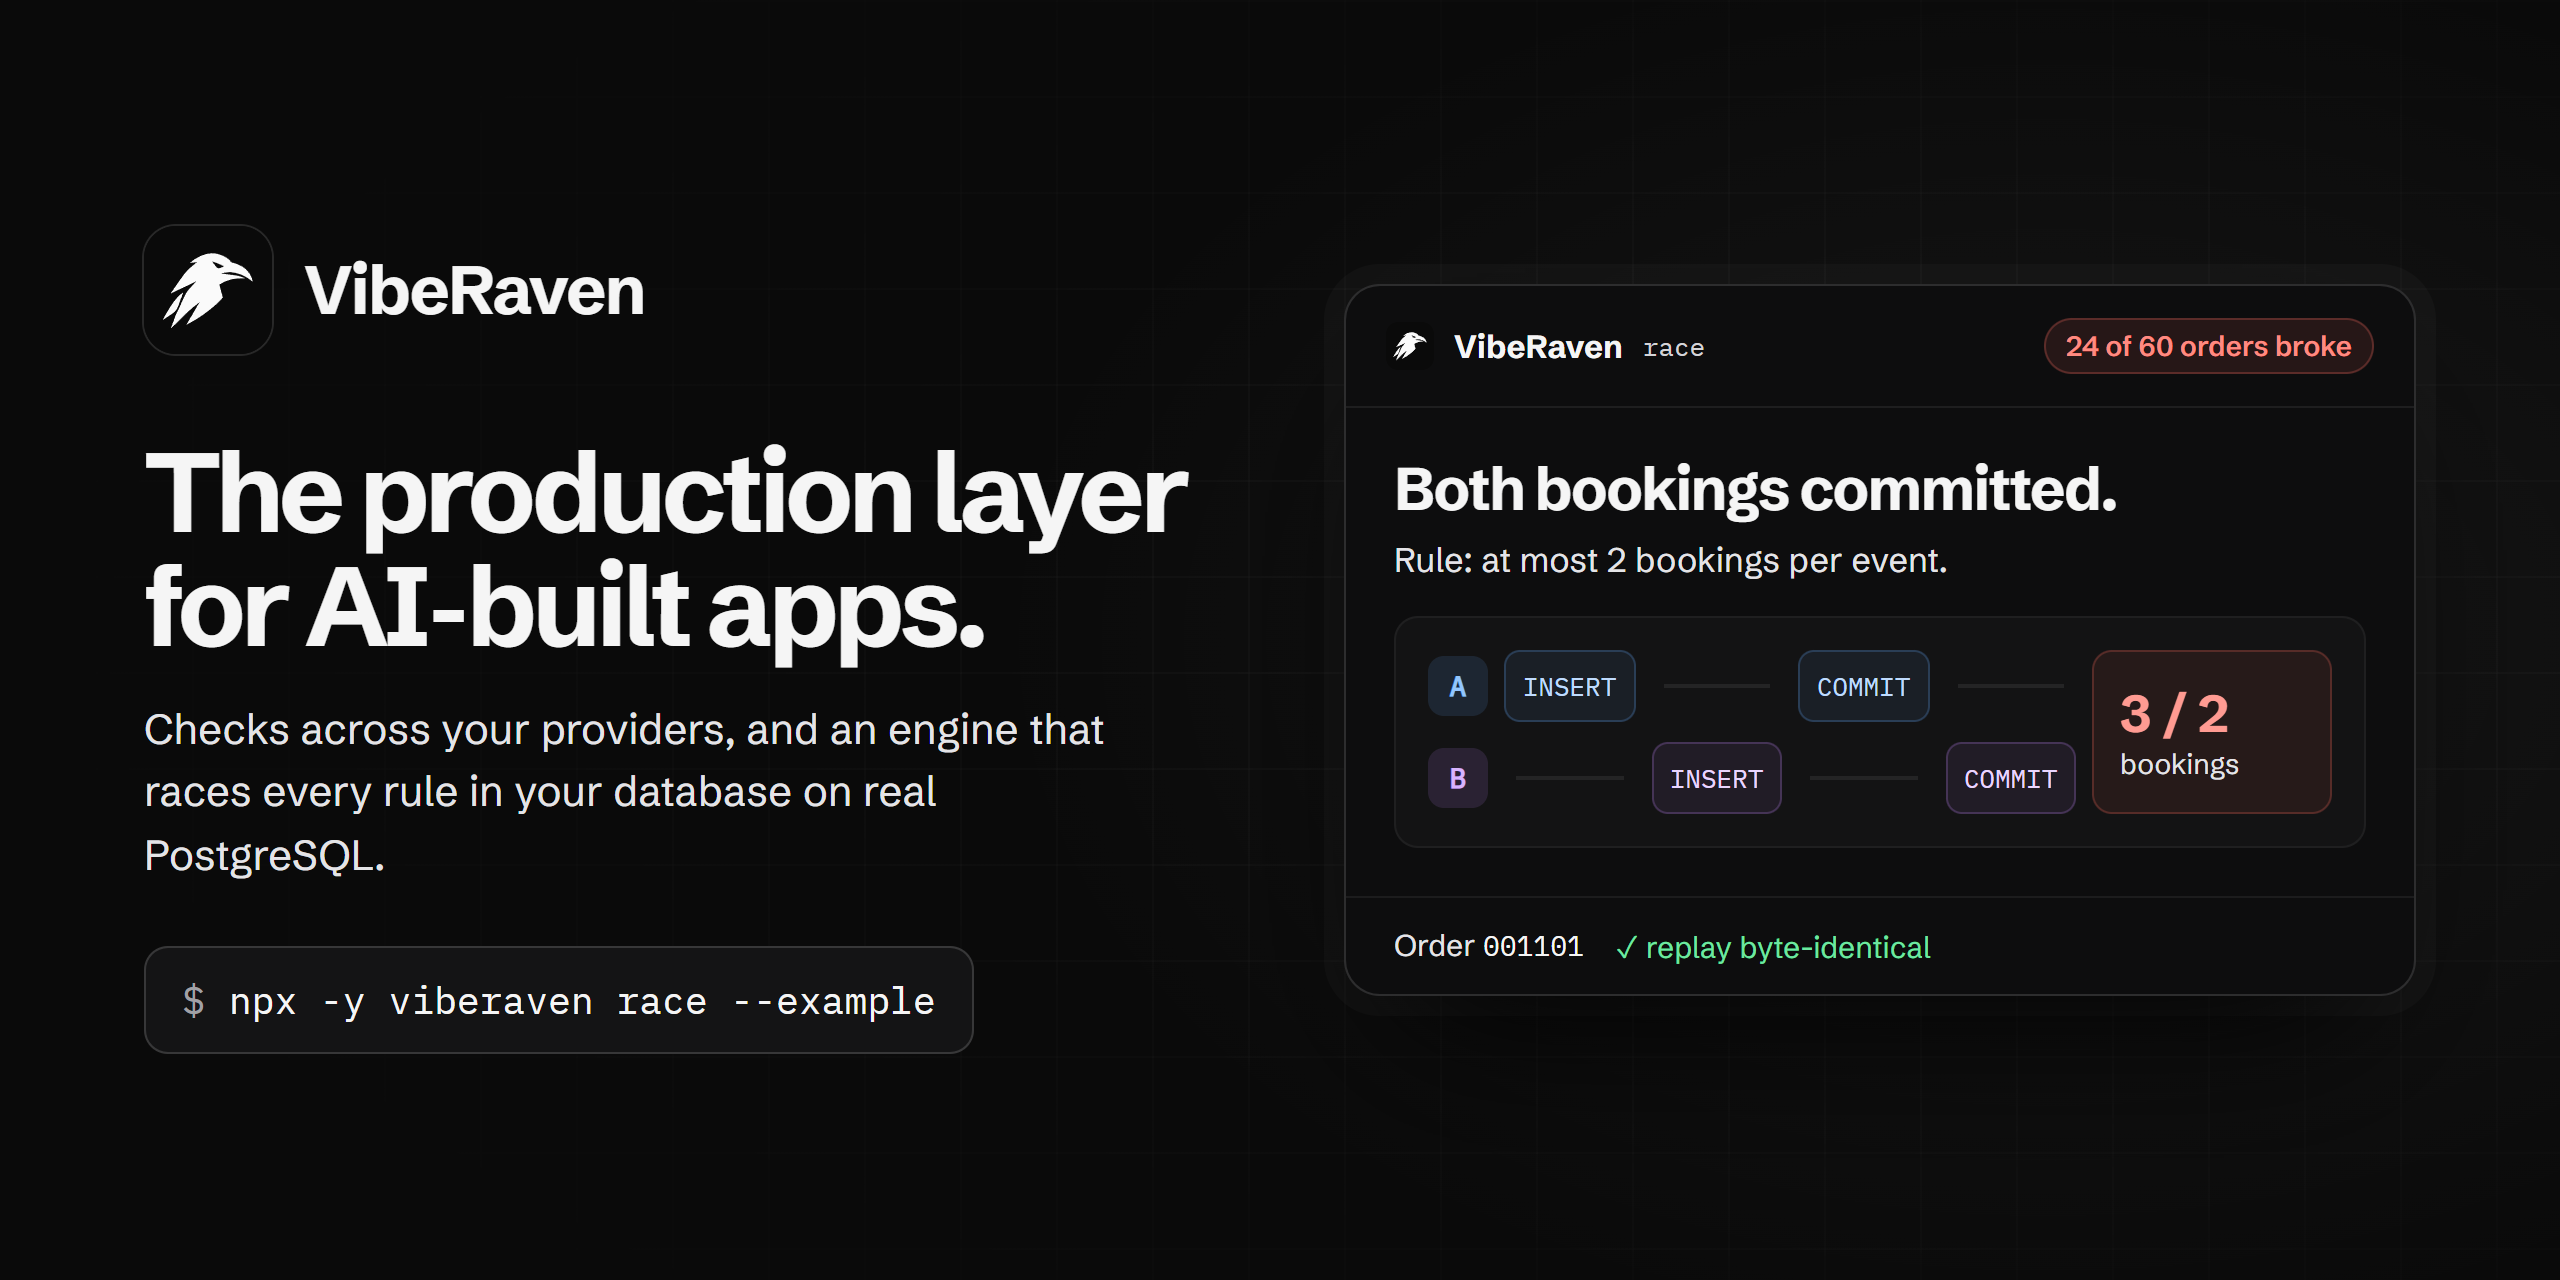
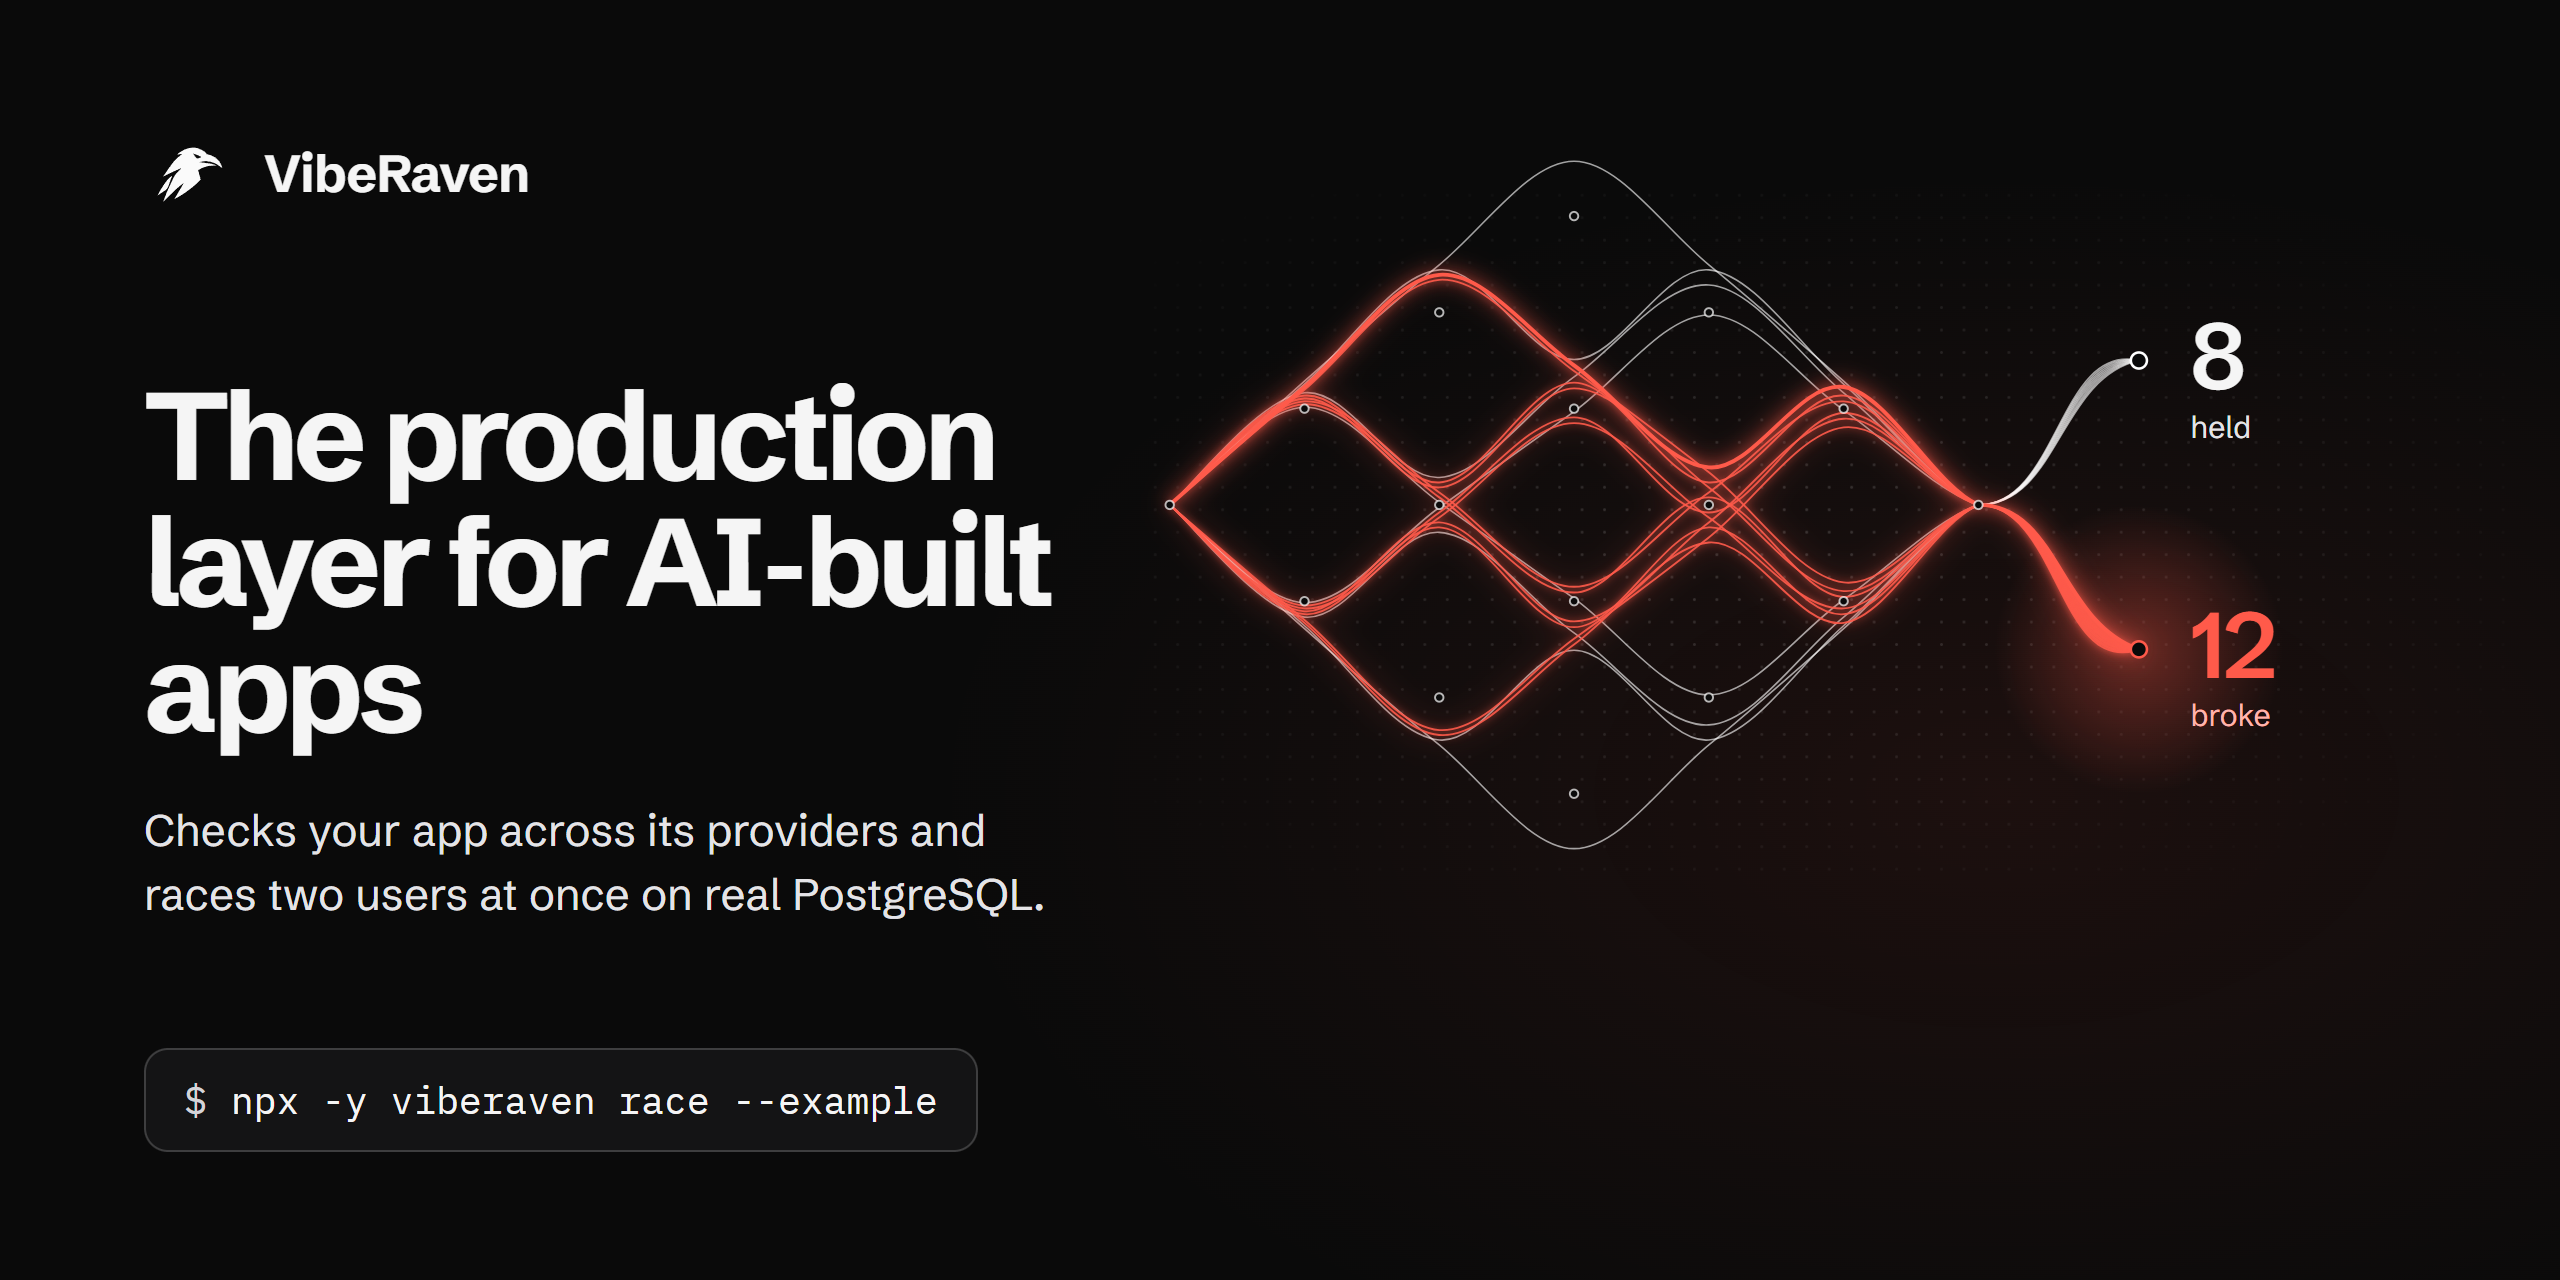
docs: README images drawn as threads, matching viberaven.dev

diff --git a/README.md b/README.md
@@ -1,5 +1,5 @@
 <p align="center">
-  <a href="https://viberaven.dev"><img src="./assets/readme-banner.png" alt="VibeRaven: the production layer for AI-built apps. A race result: both bookings committed, 24 of 60 orders broke, replay byte-identical." width="100%" /></a>
+  <a href="https://viberaven.dev"><img src="./assets/readme-banner.png" alt="VibeRaven: the production layer for AI-built apps. All 20 orders of two bookings drawn as threads: 12 broke the limit, 8 held." width="100%" /></a>
 </p>
 
 <p align="center">
@@ -40,9 +40,9 @@ Replay record is byte-identical, including PostgreSQL protocol bytes.
 
 That is the engine inside VibeRaven: `race` tests your app's database with two users at once, on real PostgreSQL, without Docker, and replays exactly what broke. In order 001101, A inserts, B inserts, A commits, B commits: the event ends with 3 bookings out of 2. The bundled fix brings it to 0 broken of 60.
 
-## Inside your chat
+<p align="center"><img src="./assets/race-result.png" alt="npx -y viberaven race --example: two users book the last seat at once. 12 orders broke under read committed, 12 under repeatable read, 0 under serializable: 24 of 60. The broken order replays exactly." width="100%" /></p>
 
-<p align="center"><img src="./assets/chat-race.png" alt="VibeRaven's race result inside ChatGPT: both bookings committed, 24 of 60 orders broke, replay byte-identical." width="100%" /></p>
+## Inside your chat
 
 Add `https://viberaven.dev/mcp` as a custom connector in ChatGPT, Claude, Codex, Cursor or Lovable, then ask: "Can two users book the last seat?" [Setup for each agent](https://viberaven.dev/connect/mcp).
 
